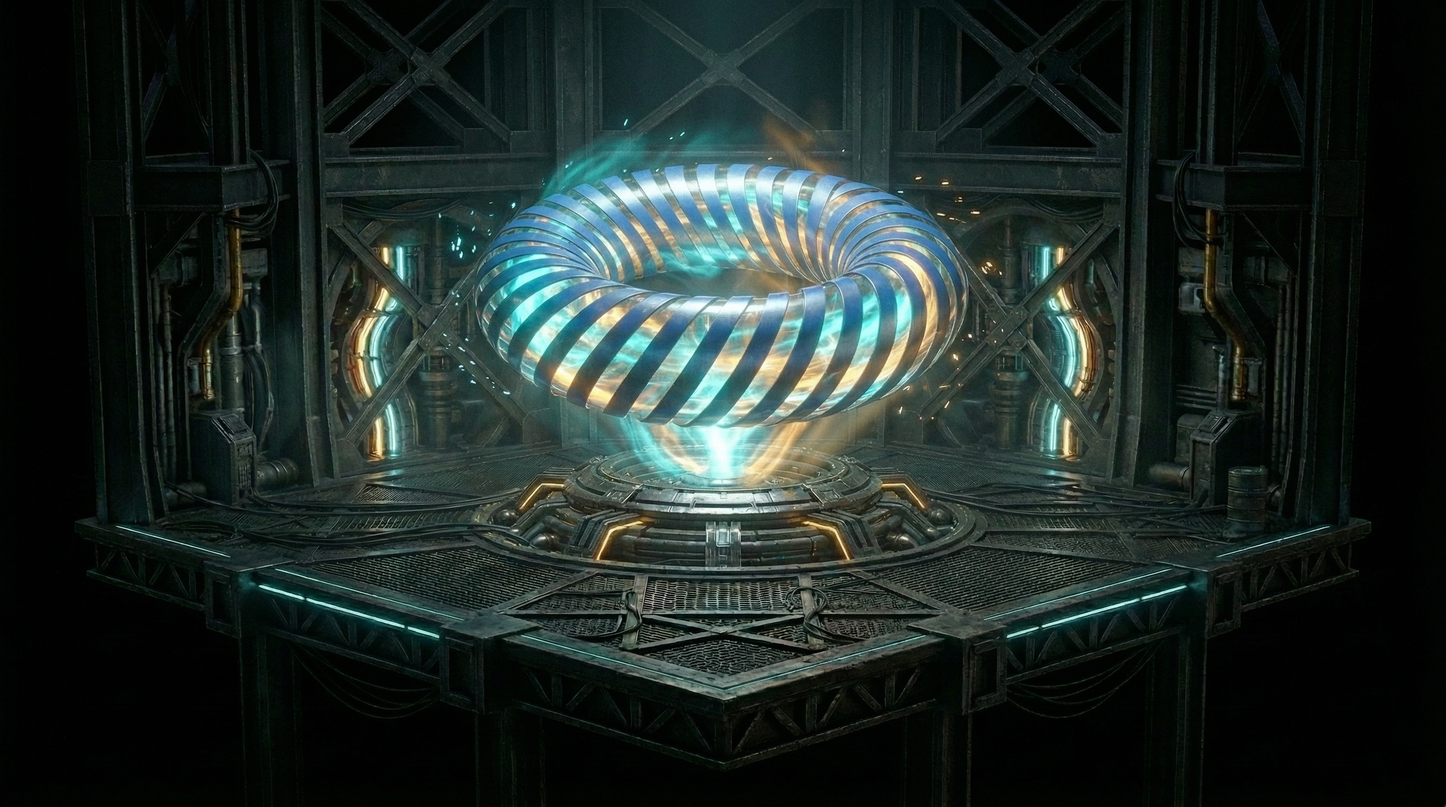
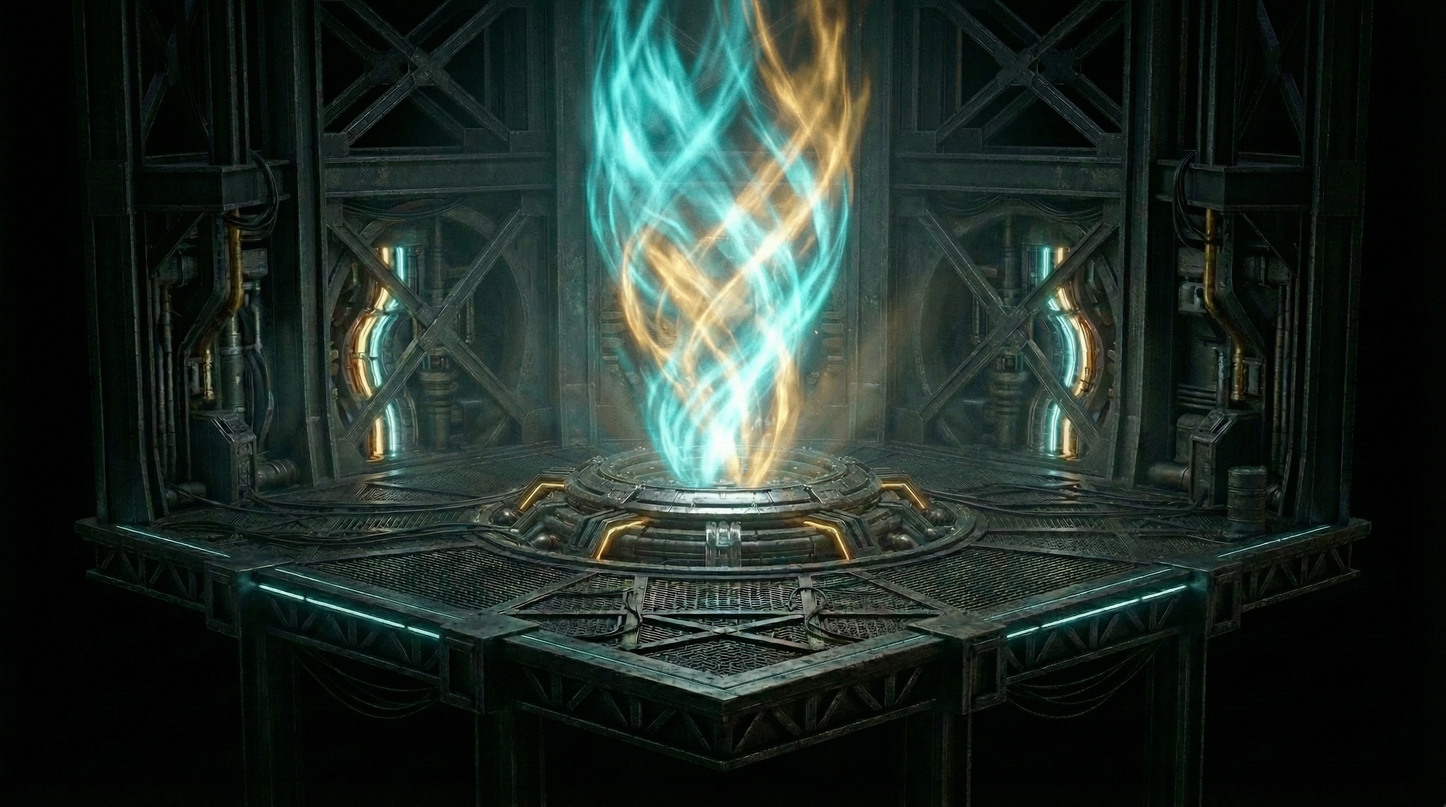
feat: replace Thanos L2 torus with animated image asset and particle overlay
Replace 3D wireframe torus with background-removed torus image featuring
CSS animations (breathing scale, scanline shimmer, glow pulse). Simplify
TokamakGate to full-section ambient particle overlay. Update floor
background image to reactor chamber without torus.

Changed region(s): [[0.2188, 0.0, 0.7812, 0.875], [0.1562, 0.5312, 0.1875, 0.5625]]

diff --git a/src/app/components/ui/sections/thanos-l2/TokamakGate.tsx b/src/app/components/ui/sections/thanos-l2/TokamakGate.tsx
@@ -3,13 +3,11 @@
 import { useRef, useMemo, useEffect, useCallback } from "react";
 import { Canvas, useFrame, useThree, RootState } from "@react-three/fiber";
 import {
-  Group,
   AdditiveBlending,
   BufferGeometry,
   Float32BufferAttribute,
   Points,
 } from "three";
-import type * as THREE from "three";
 
 /* ═══════════════════════════════════════════════
    Resize helper
@@ -57,46 +55,10 @@ function ResizeHelper() {
 }
 
 /* ═══════════════════════════════════════════════
-   Orbiting energy ring — thin line ring
+   Ambient particles — floating motes across section
    ═══════════════════════════════════════════════ */
 
-function OrbitRing({
-  radius,
-  tilt,
-  speed,
-  color,
-  opacity,
-}: {
-  radius: number;
-  tilt: [number, number, number];
-  speed: number;
-  color: string;
-  opacity: number;
-}) {
-  const meshRef = useRef<THREE.Mesh>(null!);
-
-  useFrame((_, delta) => {
-    if (meshRef.current) meshRef.current.rotation.z += speed * delta;
-  });
-
-  return (
-    <mesh ref={meshRef} rotation={tilt}>
-      <torusGeometry args={[radius, 0.006, 8, 128]} />
-      <meshBasicMaterial
-        color={color}
-        transparent
-        opacity={opacity}
-        blending={AdditiveBlending}
-      />
-    </mesh>
-  );
-}
-
-/* ═══════════════════════════════════════════════
-   Ambient particles — floating motes
-   ═══════════════════════════════════════════════ */
-
-const MOTE_COUNT = 200;
+const MOTE_COUNT = 150;
 
 function AmbientMotes() {
   const pointsRef = useRef<Points>(null!);
@@ -110,9 +72,9 @@ function AmbientMotes() {
 
     for (let i = 0; i < MOTE_COUNT; i++) {
       phases[i] = Math.random() * Math.PI * 2;
-      radii[i] = 1.0 + Math.random() * 1.5;
-      speeds[i] = 0.1 + Math.random() * 0.2;
-      yOffsets[i] = (Math.random() - 0.5) * 2.5;
+      radii[i] = 2.0 + Math.random() * 4.0;
+      speeds[i] = 0.04 + Math.random() * 0.08;
+      yOffsets[i] = (Math.random() - 0.5) * 5.0;
     }
 
     return { positions, phases, radii, speeds, yOffsets };
@@ -126,12 +88,13 @@ function AmbientMotes() {
     for (let i = 0; i < MOTE_COUNT; i++) {
       const angle = t * speeds[i] + phases[i];
       const r = radii[i];
-      const x = Math.cos(angle) * r;
-      const y = yOffsets[i] + Math.sin(t * 0.5 + phases[i]) * 0.3;
-      const z = Math.sin(angle) * r;
-      posAttr.setXYZ(i, x, y, z);
+      posAttr.setXYZ(
+        i,
+        Math.cos(angle) * r,
+        yOffsets[i] + Math.sin(t * 0.3 + phases[i]) * 0.5,
+        Math.sin(angle) * r,
+      );
     }
-
     posAttr.needsUpdate = true;
   });
 
@@ -145,9 +108,9 @@ function AmbientMotes() {
     <points ref={pointsRef} geometry={geometry}>
       <pointsMaterial
         color="#00e5ff"
-        size={0.03}
+        size={0.04}
         transparent
-        opacity={0.5}
+        opacity={0.35}
         blending={AdditiveBlending}
         depthWrite={false}
         sizeAttenuation
@@ -157,111 +120,7 @@ function AmbientMotes() {
 }
 
 /* ═══════════════════════════════════════════════
-   Spark burst — particles shooting outward
-   ═══════════════════════════════════════════════ */
-
-const SPARK_COUNT = 60;
-
-function SparkBurst() {
-  const pointsRef = useRef<Points>(null!);
-
-  const { positions, velocities, lifetimes, maxLifetimes } = useMemo(() => {
-    const positions = new Float32Array(SPARK_COUNT * 3);
-    const velocities = new Float32Array(SPARK_COUNT * 3);
-    const lifetimes = new Float32Array(SPARK_COUNT);
-    const maxLifetimes = new Float32Array(SPARK_COUNT);
-
-    for (let i = 0; i < SPARK_COUNT; i++) {
-      const angle = Math.random() * Math.PI * 2;
-      const elevation = (Math.random() - 0.5) * 1.0;
-      const speed = 0.3 + Math.random() * 1.0;
-
-      velocities[i * 3] = Math.cos(angle) * speed;
-      velocities[i * 3 + 1] = elevation * speed * 0.4;
-      velocities[i * 3 + 2] = Math.sin(angle) * speed;
-
-      maxLifetimes[i] = 2.0 + Math.random() * 2.5;
-      lifetimes[i] = Math.random() * maxLifetimes[i];
-    }
-
-    return { positions, velocities, lifetimes, maxLifetimes };
-  }, []);
-
-  useFrame((_, delta) => {
-    if (!pointsRef.current) return;
-    const posAttr = pointsRef.current.geometry.getAttribute("position");
-
-    for (let i = 0; i < SPARK_COUNT; i++) {
-      lifetimes[i] += delta;
-
-      if (lifetimes[i] >= maxLifetimes[i]) {
-        lifetimes[i] = 0;
-        posAttr.setXYZ(i, 0, 0, 0);
-        continue;
-      }
-
-      const t = lifetimes[i];
-      const x = velocities[i * 3] * t;
-      const y = velocities[i * 3 + 1] * t;
-      const z = velocities[i * 3 + 2] * t;
-
-      posAttr.setXYZ(i, x, y, z);
-    }
-
-    posAttr.needsUpdate = true;
-  });
-
-  const geometry = useMemo(() => {
-    const geo = new BufferGeometry();
-    geo.setAttribute("position", new Float32BufferAttribute(positions, 3));
-    return geo;
-  }, [positions]);
-
-  return (
-    <points ref={pointsRef} geometry={geometry}>
-      <pointsMaterial
-        color="#f59e0b"
-        size={0.02}
-        transparent
-        opacity={0.6}
-        blending={AdditiveBlending}
-        depthWrite={false}
-        sizeAttenuation
-      />
-    </points>
-  );
-}
-
-/* ═══════════════════════════════════════════════
-   Combined scene — rotating wireframe torus
-   with energy effects
-   ═══════════════════════════════════════════════ */
-
-function TorusCore() {
-  const groupRef = useRef<Group>(null!);
-
-  useFrame((_, delta) => {
-    if (groupRef.current) {
-      groupRef.current.rotation.y += 0.15 * delta;
-    }
-  });
-
-  return (
-    <group ref={groupRef} position={[0, 0.6, 0]}>
-      {/* Orbiting energy rings only — torus visual comes from image */}
-      <OrbitRing radius={1.9} tilt={[0.3, 0.2, 0]} speed={0.2} color="#00e5ff" opacity={0.25} />
-      <OrbitRing radius={2.1} tilt={[0.7, -0.25, 0.35]} speed={-0.15} color="#2A72E5" opacity={0.18} />
-      <OrbitRing radius={2.0} tilt={[1.1, 0.4, -0.15]} speed={0.12} color="#f59e0b" opacity={0.12} />
-
-      {/* Particles */}
-      <AmbientMotes />
-      <SparkBurst />
-    </group>
-  );
-}
-
-/* ═══════════════════════════════════════════════
-   Main Export
+   Main Export — full section particle overlay
    ═══════════════════════════════════════════════ */
 
 export default function TokamakGate() {
@@ -284,25 +143,18 @@ export default function TokamakGate() {
   return (
     <div
       id="tokamak-gate"
-      className="absolute"
-      style={{
-        left: "50%",
-        top: "38%",
-        transform: "translate(-50%, -50%)",
-        width: "clamp(280px, 42vw, 560px)",
-        height: "clamp(200px, 30vw, 400px)",
-        zIndex: 5,
-      }}
+      className="absolute inset-0 pointer-events-none"
+      style={{ zIndex: 6 }}
     >
       <Canvas
-        camera={{ position: [0, 2.2, 5], fov: 38 }}
+        camera={{ position: [0, 0, 8], fov: 50 }}
         gl={{ alpha: true, antialias: true }}
         dpr={[1, 1.5]}
         style={{ background: "transparent" }}
         onCreated={handleCreated}
       >
         <ResizeHelper />
-        <TorusCore />
+        <AmbientMotes />
       </Canvas>
     </div>
   );

diff --git a/src/app/components/ui/sections/thanos-l2/index.tsx b/src/app/components/ui/sections/thanos-l2/index.tsx
@@ -2,6 +2,7 @@
 
 import { motion } from "framer-motion";
 import dynamic from "next/dynamic";
+import Image from "next/image";
 
 const TokamakGate = dynamic(() => import("./TokamakGate"), { ssr: false });
 
@@ -305,7 +306,59 @@ export default function ThanosL2Overlay() {
     <div className="absolute inset-0">
       <HeaderBar />
 
-      {/* Central Tokamak Gate — 3D rotating rings */}
+      {/* Holographic torus asset — animated */}
+      <div
+        className="absolute pointer-events-none"
+        style={{
+          left: "50%",
+          top: "38%",
+          transform: "translate(-50%, -50%)",
+          width: "clamp(280px, 42vw, 560px)",
+          height: "clamp(200px, 30vw, 400px)",
+          zIndex: 4,
+        }}
+      >
+        {/* Slow rotation for movement feel */}
+        <div
+          style={{
+            width: "100%",
+            height: "100%",
+            animation: "torusSpin 6s ease-in-out infinite",
+          }}
+        >
+          <Image
+            src="/tower/torus-glow.png"
+            alt=""
+            fill
+            className="object-contain"
+            priority
+          />
+        </div>
+
+        {/* Shimmer scanline overlay */}
+        <div
+          className="absolute inset-0 pointer-events-none"
+          style={{
+            background:
+              "linear-gradient(180deg, transparent 0%, rgba(0, 229, 255, 0.08) 48%, rgba(0, 229, 255, 0.15) 50%, rgba(0, 229, 255, 0.08) 52%, transparent 100%)",
+            backgroundSize: "100% 200%",
+            animation: "torusScanline 3s ease-in-out infinite",
+            mixBlendMode: "screen",
+          }}
+        />
+
+        {/* Pulsing glow aura */}
+        <div
+          className="absolute inset-0 pointer-events-none"
+          style={{
+            background:
+              "radial-gradient(ellipse at center, rgba(0, 229, 255, 0.12) 0%, transparent 60%)",
+            animation: "torusPulse 4s ease-in-out infinite",
+          }}
+        />
+      </div>
+
+      {/* 3D particle effects overlay */}
       <TokamakGate />
 
       {/* Left metrics */}

diff --git a/src/app/globals.css b/src/app/globals.css
@@ -159,3 +159,21 @@ body {
   from { transform: rotate(0deg); }
   to { transform: rotate(360deg); }
 }
+
+@keyframes torusSpin {
+  0%, 100% { transform: scale(1) translateY(0); }
+  25% { transform: scale(1.02) translateY(-2px); }
+  50% { transform: scale(1.04) translateY(-4px); }
+  75% { transform: scale(1.02) translateY(-2px); }
+}
+
+@keyframes torusScanline {
+  0% { background-position: 0% 0%; }
+  50% { background-position: 0% 100%; }
+  100% { background-position: 0% 0%; }
+}
+
+@keyframes torusPulse {
+  0%, 100% { opacity: 0.4; transform: scale(1); }
+  50% { opacity: 0.8; transform: scale(1.05); }
+}
